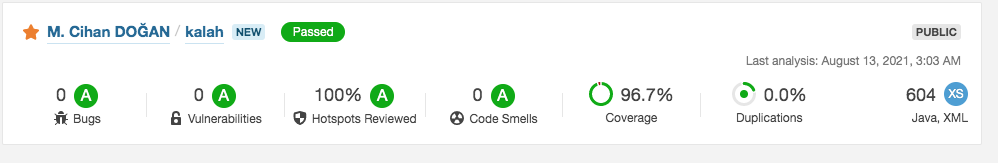
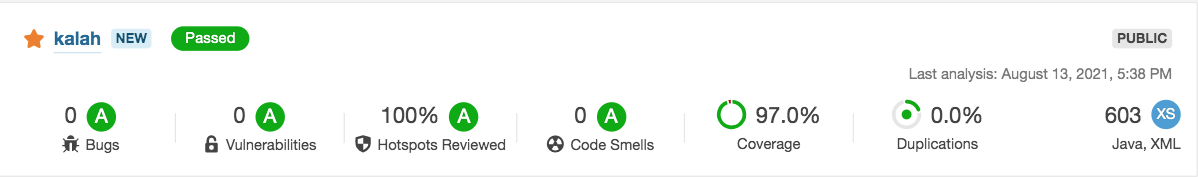
bug fixed

diff --git a/src/main/resources/static/app.js b/src/main/resources/static/app.js
@@ -17,6 +17,7 @@ angular.module('KalahGameApplication', [])
         $scope.errorMessage = undefined;
         $scope.gameStatus = "START";
 
+
         gameController.setFields = function (moveResponse) {
             $scope.pitMap = moveResponse.status;
             $scope.pits = Object.entries($scope.pitMap).map(([id, stone]) => ({id, stone}));
@@ -25,6 +26,22 @@ angular.module('KalahGameApplication', [])
             $scope.pitsA = $scope.pits.filter(p => p.id < PIT_MEDIAN_ID);
             $scope.pitsB = $scope.pits.filter(p => p.id > PIT_MEDIAN_ID).filter(p => p.id < PIT_END_ID).reverse();
             $scope.houses = $scope.pits.filter(p => p.id % PIT_MEDIAN_ID === 0).reverse();
+/*
+            let  total = 0;
+
+            for(let i= 1 ; i<= 14; i++ ){
+                let value = $scope.pitMap[i];
+                total += parseInt(value);
+            }
+
+
+
+            if(total !=72){
+                $scope.BUG="BUG VAR !!!!!!";
+                console.log("BUGG");
+            }*/
+
+
         };
 
         gameController.setFields(initialMoveResponse);
@@ -42,11 +59,13 @@ angular.module('KalahGameApplication', [])
 
             $scope.errorMessage = "";
 
+            console.log("BeforSend: " + JSON.stringify($scope.pitMap))
             $http.put("/games/" + $scope.gameId + "/pits/" + pitId + "").then(function (response) {
                 gameController.setFields(response.data);
 
                 determineActivePlayer(pit);
                 determineWinner(response.data)
+                console.log("AfterSend: " + JSON.stringify($scope.pitMap))
 
             }).catch(function (response) {
                 console.log(response);

diff --git a/src/main/resources/static/index.html b/src/main/resources/static/index.html
@@ -9,6 +9,8 @@
 <body>
 <div ng-controller="GameController as gameController">
 
+  <!--  <h1>{{BUG}}</h1>-->
+
    <center> <div class="game-info">
         <b>Game status: </b> <span>{{ gameStatus}}</span> <br/>
         <b>Game Id : </b> <span>{{gameId}}</span> <br/>

diff --git a/src/main/java/com/cihan/kalah/service/GameEngine.java b/src/main/java/com/cihan/kalah/service/GameEngine.java
@@ -1,11 +1,14 @@
 package com.cihan.kalah.service;
 
 import com.cihan.kalah.model.Game;
+import com.cihan.kalah.model.GameConstant;
 import com.cihan.kalah.model.Pit;
 import com.cihan.kalah.model.Player;
+import lombok.extern.slf4j.Slf4j;
 import org.springframework.stereotype.Service;
 
 @Service
+@Slf4j
 public class GameEngine {
 
     void executeGameFlow(Game game, Integer pitId) {
@@ -19,18 +22,29 @@ public class GameEngine {
         if (game.getActivePlayer() == null) {
             game.initActivePlayerByPitId(pitId);
         }
+        log.info("Player {} is determined as a Active player", game.getActivePlayer());
     }
 
     private void distributeStones(Game game, Integer pitId) {
         Pit pit = game.getBoard().getPitById(pitId);
         int currentPitStone = pit.getStoneCount();
         pit.resetPitStone();
-        while (currentPitStone-- > 0) {
-            Pit currentPit = game.moveOn(++pitId);
+        while (currentPitStone > 0) {
+            pitId = getNextPitId(pitId);
+            Pit currentPit = game.moveOn(pitId);
             if (currentPit.isDistributablePit(game.getActivePlayer())) {
                 currentPit.increasePitStone();
+                currentPitStone--;
             }
         }
+        log.info("Stones are distributed for the Player : {}", game.getActivePlayer());
+    }
+
+    private Integer getNextPitId(Integer pitId) {
+        if (pitId != GameConstant.PIT_END_ID) {
+            return pitId % GameConstant.PIT_END_ID + 1;
+        }
+        return 1;
     }
 
     private void applyLastPitRules(Game game) {
@@ -44,18 +58,21 @@ public class GameEngine {
             game.collectStones();
             game.determineWinner();
             game.finish();
+            log.info("Game finished! The winner {}", game.getWinner());
         }
     }
 
     private void captureOppositePitStone(Game game, Pit pit) {
         if (shouldCaptureOppositePitStone(game, pit)) {
             game.captureOppositePitStone(pit.getId());
+            log.info("Player {} captured opponent's pit", game.getActivePlayer());
         }
     }
 
     private void turnToOtherPlayer(Game game, Pit pit) {
         if (!pit.isActivePlayersHousePit(game.getActivePlayer())) {
             game.turnToOtherPlayer();
+            log.info("Turn to Player {}", game.getActivePlayer());
         }
     }
 

diff --git a/src/test/java/com/cihan/kalah/model/GameTest.java b/src/test/java/com/cihan/kalah/model/GameTest.java
@@ -104,11 +104,16 @@ class GameTest {
         int oppositePitStone = game.getBoard().getOppositePit(pitId).getStoneCount();
         int houseStone = game.getBoard().getHousePit(Player.A).getStoneCount();
         int sumOfStones = pitStone + oppositePitStone + houseStone;
+        int allStones = game.getBoard().getPits().values().stream().mapToInt(Pit::getStoneCount).sum();
 
         game.captureOppositePitStone(pitId);
 
         int houseStoneAfterCapture = game.getBoard().getHousePit(Player.A).getStoneCount();
         assertEquals(sumOfStones, houseStoneAfterCapture);
+
+        int allStonesAfterCaptured = game.getBoard().getPits().values().stream().mapToInt(Pit::getStoneCount).sum();
+        assertEquals(allStones, allStonesAfterCaptured);
+
     }
 
 }

diff --git a/src/main/java/com/cihan/kalah/controller/GameController.java b/src/main/java/com/cihan/kalah/controller/GameController.java
@@ -37,9 +37,11 @@ public class GameController {
 
     @PutMapping("/{gameId}/pits/{pitId}")
     public ResponseEntity<MoveGameResponse> move(@PathVariable final String gameId, @PathVariable final Integer pitId) {
+        log.info("Moving Started !");
         RequestValidator.validateParameters(gameId, pitId);
         Game game = gameService.move(gameId, pitId);
         MoveGameResponse response = new MoveGameResponse(game, port);
+        log.info("status {} for pitId {}", response.getStatus(), pitId);
         return ResponseEntity.status(HttpStatus.OK).body(response);
     }
 

diff --git a/src/test/java/com/cihan/kalah/model/BoardTest.java b/src/test/java/com/cihan/kalah/model/BoardTest.java
@@ -42,6 +42,17 @@ class BoardTest {
     }
 
     @Test
+    void shouldAdvanceToNextPitWhenEndPit() {
+        Integer pitId = GameConstant.PIT_END_ID;
+        Integer expectedPitId = pitId % GameConstant.PIT_END_ID +1;
+        Board board = new Board();
+
+        Pit nextPit = board.advanceToNextPit(pitId);
+
+        assertEquals(expectedPitId, nextPit.getId());
+    }
+
+    @Test
     void shouldSetLatestPitWhenAdvanceToNextPit() {
         Integer pitId = 1;
         Board board = new Board();

diff --git a/src/main/java/com/cihan/kalah/model/Board.java b/src/main/java/com/cihan/kalah/model/Board.java
@@ -37,8 +37,7 @@ public class Board {
     }
 
     public Pit advanceToNextPit(Integer pitId) {
-        int nextPitId = pitId <= GameConstant.PIT_END_ID ? pitId : pitId % GameConstant.PIT_END_ID;
-        latestPit = pits.get(nextPitId);
+        latestPit = pits.get(pitId);
         return latestPit;
     }
 

diff --git a/README.md b/README.md
@@ -18,9 +18,9 @@ The default implementation of this app for 6 stone and 6 pits.
 <br/>  
 
 💡 **You can customize the application by changing default stone or pit count. So you can play many different implementation of KALAH**  
-```
-Change 𝐃𝐄𝐅𝐀𝐔𝐋𝐓_𝐒𝐓𝐎𝐍𝐄_𝐂𝐎𝐔𝐍𝐓 as a N for play N-stone Kalah.     
-Change 𝐃𝐄𝐅𝐀𝐔𝐋𝐓_𝐏𝐈𝐓_𝐂𝐎𝐔𝐍𝐓 as a N for play N-pits Kalah. 
+```js
+Change "DEFAULT_STONE_COUNT" as a N for play N-stone Kalah.     
+Change "DEFAULT_PIT_COUND" as a N for play N-pits Kalah. 
 ```
 
 ## About the game
@@ -72,7 +72,7 @@ http://localhost:8080/swagger-ui.html
 **Swagger Implementation :**  
 
 
-![image info](./screenshots/swagger.png)
+![image info](./doc/swagger.png)
 
  
 
@@ -116,7 +116,7 @@ curl --header "Content-Type: application/json" \
 |Metric| Cover persentence|
 |-|-|
 |Hotspots Reviewed | 100%|
-|Test Coverage | 96.7%|
+|Test Coverage | 97%|
  
 
  <br/>
@@ -125,12 +125,4 @@ curl --header "Content-Type: application/json" \
 
  <br/>
  
- Game:
-
-
-
-
- ----------  
- 
- 
- 
+  
